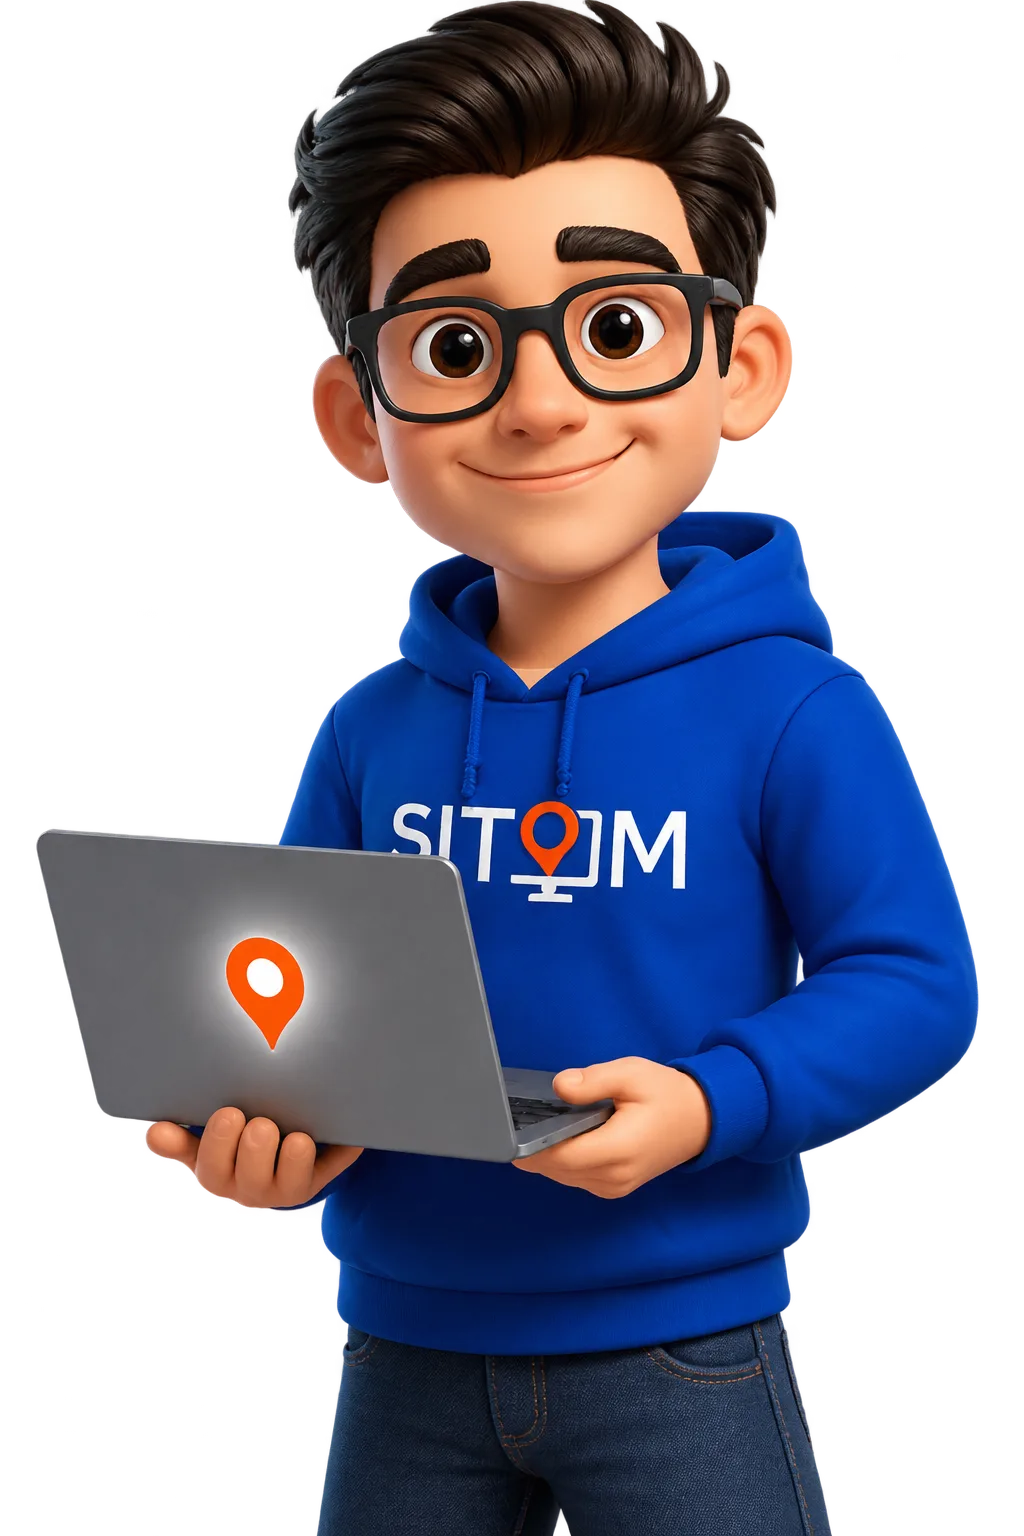
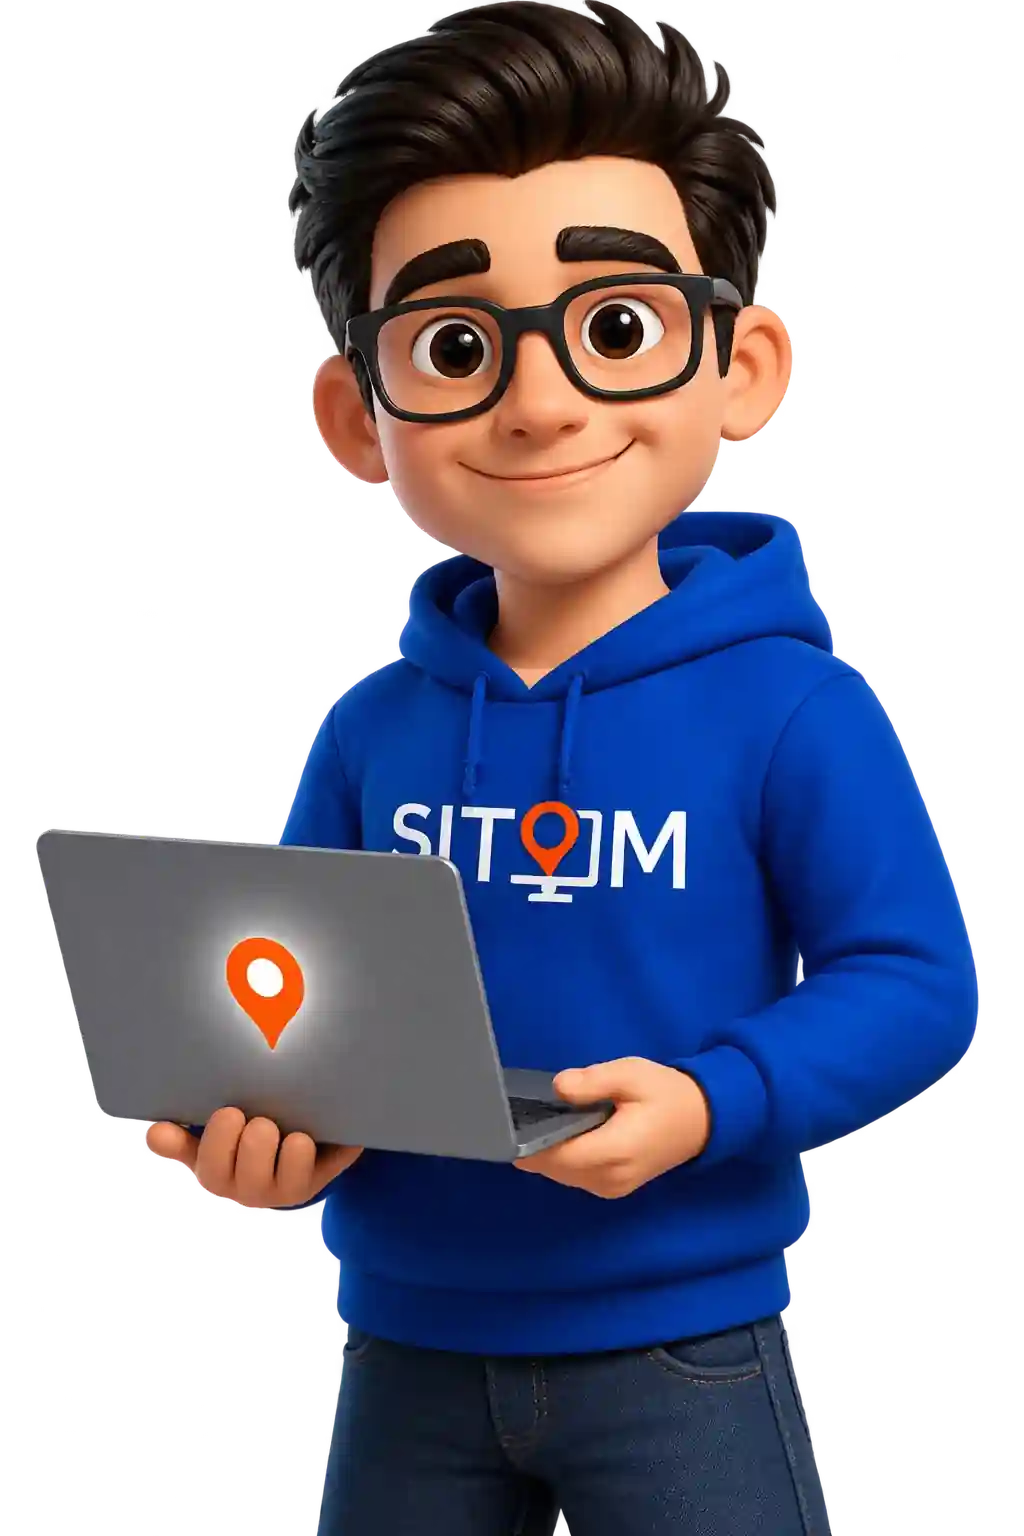
update image sizes and use webp format

diff --git a/src/const/TEMPLATED_DATA.ts b/src/const/TEMPLATED_DATA.ts
@@ -15,49 +15,49 @@ export type TemplateType={
 export const TEMPLATES_DATA:TemplateType[]=[
   {
     title:"سوپر مارکت",
-    imageSrc:'/images/webCard.png',
+    imageSrc:'/images/webCard.webp',
     link:"/",
     color:'text-primary',
     icon:MdOutlineLocalGroceryStore
   },
   {
     title:"آرایشی بهداشتی",
-    imageSrc:'/images/webCard.png',
+    imageSrc:'/images/webCard.webp',
     link:"/",
     color:'text-secondary',
     icon:IoBrushOutline
   },
   {
     title:"کیف و کفش",
-    imageSrc:'/images/webCard.png',
+    imageSrc:'/images/webCard.webp',
     link:"/",
     color:'text-custom-purple',
     icon:GiRunningShoe
   },
   {
     title:"عطر وادکلن",
-    imageSrc:'/images/webCard.png',
+    imageSrc:'/images/webCard.webp',
     link:"/",
     color:'text-custom-green',
     icon:TbPerfume
   },
   {
     title:"موبایل و دیجیتال",
-    imageSrc:'/images/webCard.png',
+    imageSrc:'/images/webCard.webp',
     link:"/",
     color:'text-custom-blue',
     icon:CiMobile3
   },
   {
     title:"زیبایی و آرایشی",
-    imageSrc:'/images/webCard.png',
+    imageSrc:'/images/webCard.webp',
     link:"/",
     color:'text-custom-red',
     icon:RiShoppingBagLine
   },
   {
     title:" آرایشی",
-    imageSrc:'/images/webCard.png',
+    imageSrc:'/images/webCard.webp',
     link:"/",
     color:'text-secondary',
     icon:RiShoppingBagLine
